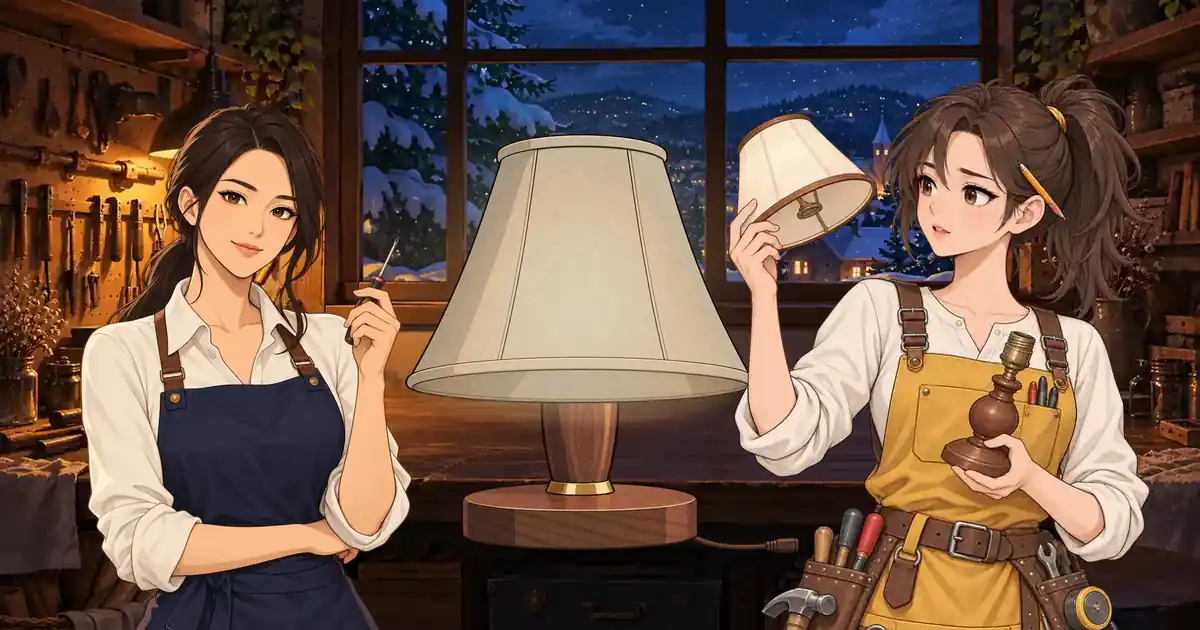
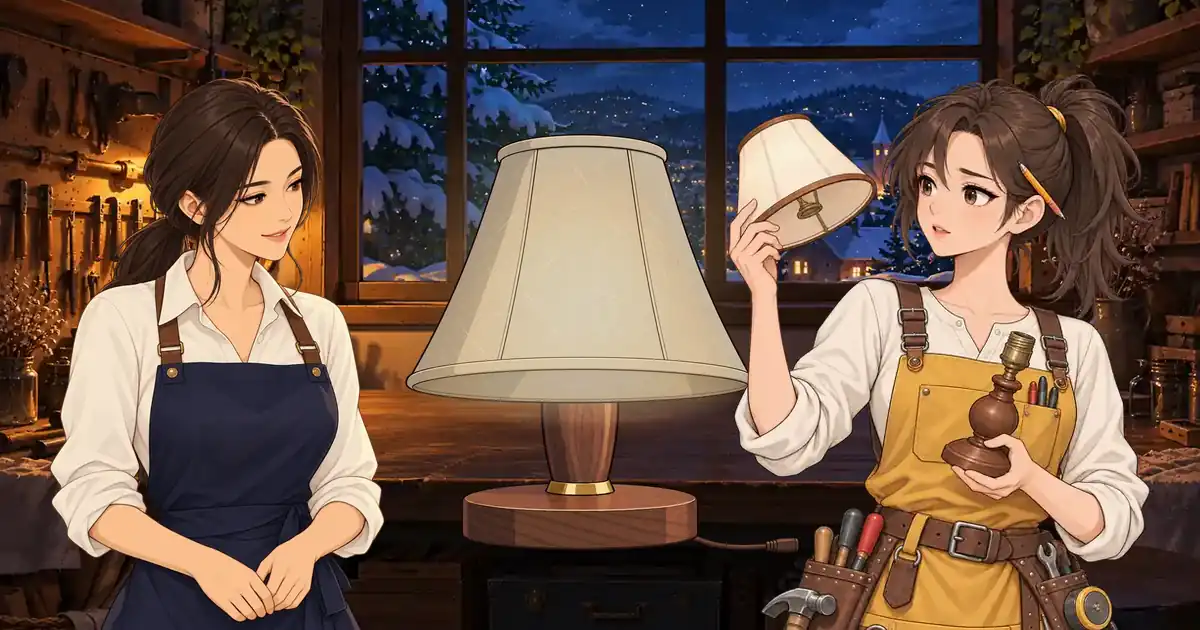
一盞燈的約定 cover: Yiyi uses yiyi-look-lamp (no flip, gazes at the lamp); og rebuilt

Changed region(s): [[0.0308, 0.1206, 0.3392, 1.0]]

diff --git a/public/prototype/take-the-lantern-apart/index.html b/public/prototype/take-the-lantern-apart/index.html
@@ -42,7 +42,7 @@
           </div>
         </div>
         <div class="angle-dots" id="angle-dots" aria-hidden="true"><span data-angle="l"></span><span data-angle="f" class="on"></span><span data-angle="r"></span></div>
-        <img class="cover-cast yiyi" id="cover-yiyi" src="assets/yiyi-work.webp" alt="" width="480" height="720" decoding="async" data-alt="altYiyiCover">
+        <img class="cover-cast yiyi" id="cover-yiyi" src="assets/yiyi-look-lamp.webp" alt="" width="480" height="720" decoding="async" data-alt="altYiyiCover">
         <img class="cover-cast diana" id="cover-diana" src="assets/diana-ask.webp" alt="" width="480" height="720" decoding="async" data-alt="altDianaCover">
         <img class="mug" id="mug" src="assets/lamp-scale-ref.webp" alt="" width="800" height="800" aria-hidden="true">
         <img class="pack" id="pack" src="assets/pack-kraft.webp" alt="" width="600" height="600" aria-hidden="true">

diff --git a/tests/lantern.spec.js b/tests/lantern.spec.js
@@ -283,6 +283,8 @@ test("cover: tagline only, Diana leads with Yiyi, winter line opens screen 1, og
       await expect(page.locator(id)).toBeVisible();
       expect(await page.locator(id).evaluate((i) => i.complete && i.naturalWidth)).toBeGreaterThan(0);
     }
+    await expect(page.locator("#cover-yiyi")).toHaveAttribute("src", "assets/yiyi-look-lamp.webp");
+    expect(await page.locator("#cover-yiyi").evaluate((i) => getComputedStyle(i).transform)).toBe("none");
     const [d, y] = await Promise.all(["#cover-diana", "#cover-yiyi"].map((id) => page.locator(id).boundingBox()));
     expect(d.width).toBeGreaterThan(y.width);
     const btn = await page.locator("#go0").boundingBox();

diff --git a/public/prototype/take-the-lantern-apart/styles.css b/public/prototype/take-the-lantern-apart/styles.css
@@ -104,6 +104,6 @@ canvas#card { width: 100%; max-width: 420px; height: auto; border-radius: 12px; 
 /* Cover: Diana leads, Yiyi beside her, both turned to the same lamp (positioned inside .lamp-wrap) */
 .cover-cast { position: absolute; bottom: -6%; height: auto; pointer-events: none; z-index: 2; }
 .cover-cast.diana { right: -40%; width: 48%; }
-.cover-cast.yiyi { left: -33%; width: 39%; transform: scaleX(-1); }
+.cover-cast.yiyi { left: -33%; width: 39%; }
 .opening { color: var(--gold); }
 @media (max-width: 699px) { .cover-cast.diana { right: -14%; width: 40%; } .cover-cast.yiyi { left: -13%; width: 32%; } }
